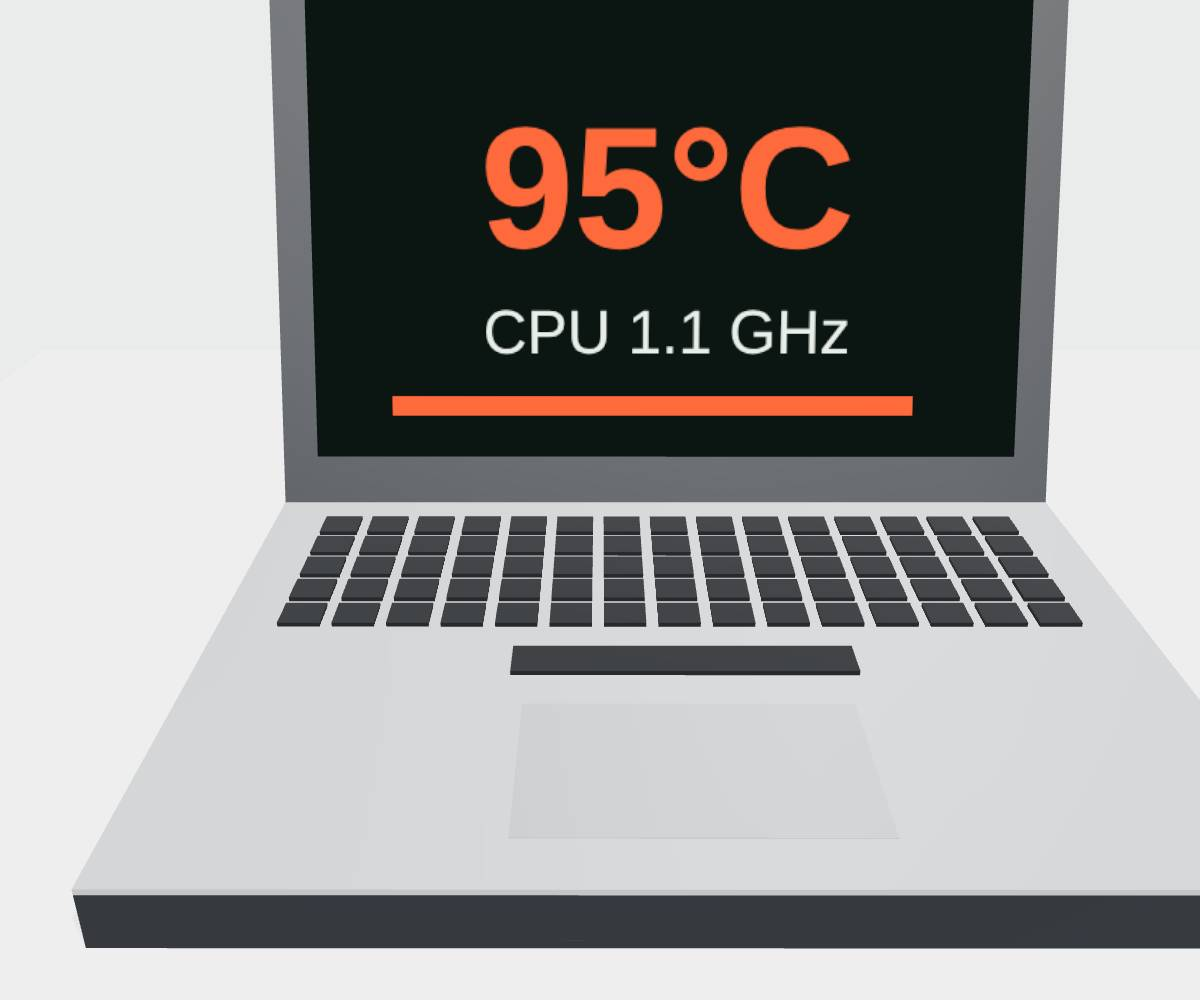
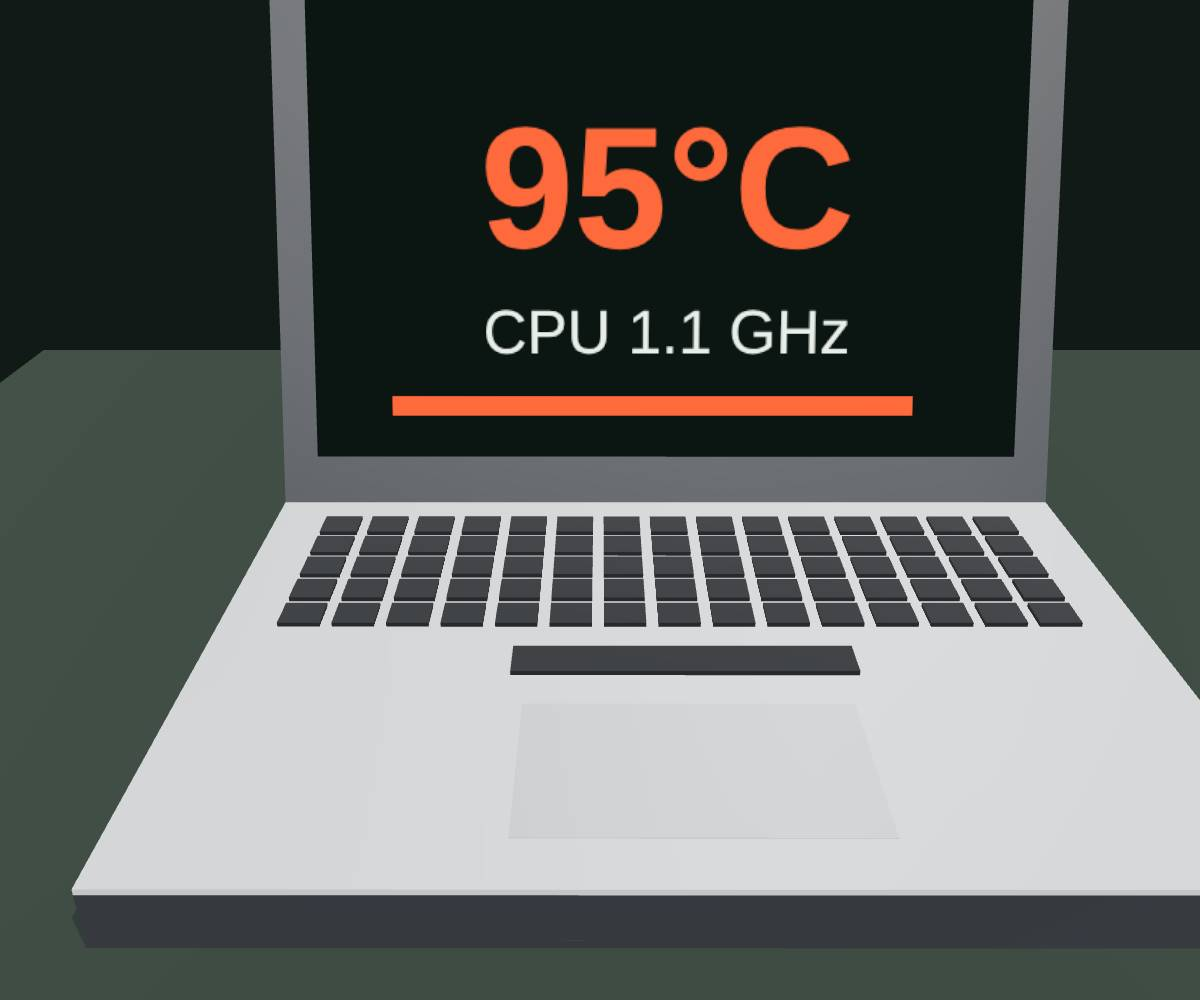
Deploy demos 82

diff --git a/sagi-pc-haifa/css/site.css b/sagi-pc-haifa/css/site.css
@@ -1,14 +1,15 @@
-/* Sagi PC concept: white bench, PCB green, mint for cool. One motif: a chip with its pin-1 corner cut. */
+/* Sagi PC concept: the bench at night, dark ESD-mat green, PCB green, mint for cool. One motif: a chip with its pin-1 corner cut. */
 :root {
-  --bg: #ffffff;
-  --surface: #eef2ef;
-  --ink: #17201b;
-  --muted: #4d5a52;
-  --pcb: #0f3a28;
+  --bg: #0e1512;
+  --surface: #18231e;
+  --ink: #e6efe9;
+  --on-mint: #0b140f;
+  --muted: #a3b4aa;
+  --pcb: #12432e;
   --pcb-ink: #f2f7f3;
   --mint: #a1ffcb;
   --hot: #ff5a2e;
-  --night: #0c0f0e;
+  --night: #070b09;
   --m: clamp(16px, 3vw, 32px);
   --cut: 18px;
   --t-small: 0.875rem;
@@ -19,7 +20,7 @@
   --ease: cubic-bezier(0.22, 1, 0.36, 1);
   --press: 130ms;
   --font: "IBM Plex Sans Hebrew", "Albert Sans", system-ui, sans-serif;
-  color-scheme: light;
+  color-scheme: dark;
 }
 html[lang="en"] { --font: "Albert Sans", "IBM Plex Sans Hebrew", system-ui, sans-serif; }
 *, *::before, *::after { box-sizing: border-box; }
@@ -33,8 +34,8 @@ html[lang="he"] [lang="en"], html[lang="en"] [lang="he"] { display: none !import
 .vh { position: absolute !important; width: 1px; height: 1px; overflow: hidden; clip: rect(0 0 0 0); white-space: nowrap; }
 .skip { position: absolute; inset-inline-start: 8px; top: -60px; z-index: 50; background: var(--ink); color: var(--bg); padding: 10px 14px; }
 .skip:focus { top: 8px; }
-:focus-visible { outline: 3px solid var(--pcb); outline-offset: 3px; }
-::selection { background: var(--mint); color: var(--ink); }
+:focus-visible { outline: 3px solid var(--mint); outline-offset: 3px; }
+::selection { background: var(--mint); color: var(--on-mint); }
 .tr { color: var(--muted); }
 
 /* the motif: chamfer at the start-top corner (pin 1) */
@@ -59,21 +60,21 @@ html.js:not(.still) .motion-switch[aria-checked="true"] .ms-fan { animation: spi
 .mark { font-weight: 700; font-size: 1.5rem; letter-spacing: -0.02em; text-decoration: none; font-family: "Albert Sans", var(--font); }
 .top ul { display: flex; gap: 22px; list-style: none; margin: 0; padding: 0; margin-inline-start: auto; }
 .top ul a { text-decoration: none; font-weight: 500; }
-.nav-call { text-decoration: none; font-weight: 600; background: var(--ink); color: var(--bg); padding: 10px 16px; }
+.nav-call { text-decoration: none; font-weight: 600; background: var(--mint); color: var(--on-mint); padding: 10px 16px; }
 @media (hover: hover) and (pointer: fine) { .top ul a:hover { text-decoration: underline; text-underline-offset: 4px; } }
 
 /* buttons */
-.btn { display: inline-flex; align-items: center; justify-content: center; min-height: 52px; padding: 12px 26px 12px 30px; background: var(--ink); color: var(--bg); font-weight: 600; text-decoration: none;
+.btn { display: inline-flex; align-items: center; justify-content: center; min-height: 52px; padding: 12px 26px 12px 30px; background: var(--mint); color: var(--on-mint); font-weight: 600; text-decoration: none;
   clip-path: polygon(14px 0, 100% 0, 100% 100%, 0 100%, 0 14px); transition: transform var(--press) var(--ease), background-color 160ms var(--ease); }
 [dir="rtl"] .btn { clip-path: polygon(0 0, calc(100% - 14px) 0, 100% 14px, 100% 100%, 0 100%); padding: 12px 30px 12px 26px; }
 .btn:active, .nav-call:active { transform: scale(0.97); }
 .btn-wide { width: 100%; }
 .textlink { font-weight: 600; text-underline-offset: 5px; text-decoration-thickness: 2px; }
-@media (hover: hover) and (pointer: fine) { .btn:hover { background: var(--pcb); } .textlink:hover { text-decoration-color: var(--pcb); } }
+@media (hover: hover) and (pointer: fine) { .btn:hover { background: #c6ffe0; } .textlink:hover { text-decoration-color: var(--mint); } }
 
 .status { display: flex; align-items: center; gap: 8px; font-weight: 500; }
-.status .dot { width: 10px; height: 10px; background: #9aa39d; flex-shrink: 0; }
-.status.open .dot { background: #18a35a; box-shadow: none; }
+.status .dot { width: 10px; height: 10px; background: #5d6b63; flex-shrink: 0; }
+.status.open .dot { background: #3ddc84; box-shadow: none; }
 
 /* hero: the text on the ground, a giant mint chip cropped by the edge, the photo and the rating display on it */
 .hero { position: relative; display: grid; grid-template-columns: repeat(12, 1fr); column-gap: 16px; min-height: calc(100svh - 120px); padding: clamp(24px, 6vh, 72px) var(--m) 64px; overflow: hidden; }
@@ -82,11 +83,11 @@ html.js:not(.still) .motion-switch[aria-checked="true"] .ms-fan { animation: spi
 .hero-text { min-width: 0; }
 .hero-lead { font-size: var(--t-lead); line-height: 1.35; max-width: 30ch; }
 .hero-act { display: flex; flex-wrap: wrap; align-items: center; gap: 14px 24px; }
-.chip { position: absolute; z-index: 0; top: 6%; inset-inline-end: -14vw; width: min(64vw, 115vh); aspect-ratio: 1; background: var(--mint);
+.chip { position: absolute; z-index: 0; top: 6%; inset-inline-end: -14vw; width: min(64vw, 115vh); aspect-ratio: 1; background: var(--pcb);
   clip-path: polygon(14% 0, 100% 0, 100% 100%, 0 100%, 0 14%); }
 [dir="rtl"] .chip { clip-path: polygon(0 0, 86% 0, 100% 14%, 100% 100%, 0 100%); }
 .chip-pads { position: absolute; inset: 0; width: 100%; height: 100%; }
-.chip-pads rect { fill: #7fe6ad; }
+.chip-pads rect { fill: #1d6646; }
 .hero-photo { grid-column: 8 / span 4; grid-row: 1; align-self: center; position: relative; z-index: 1; }
 .hero-photo img { width: 100%; aspect-ratio: 4 / 5; object-fit: cover; --cut: 34px; }
 .hero-photo img, .fault-photo img, .b-wide img, .l-photo img, .in-photo img { clip-path: polygon(var(--cut) 0, 100% 0, 100% 100%, 0 100%, 0 var(--cut)); }
@@ -123,13 +124,13 @@ html[lang="en"] .ch h2 { font-family: "Albert Sans", var(--font); letter-spacing
 .in-photo { grid-column: 8 / span 5; grid-row: 1 / span 2; }
 .in-photo img { --cut: 26px; }
 .track { height: 620vh; margin-inline: calc(-1 * var(--m)); }
-.stage { position: sticky; top: 0; height: 100svh; overflow: hidden; background: #e9ecea; }
+.stage { position: sticky; top: 0; height: 100svh; overflow: hidden; background: #111a16; }
 .view { position: absolute; inset: 0; }
 .view canvas { position: absolute; inset: 0; width: 100% !important; height: 100% !important; display: block; }
 .still { position: absolute; inset: 0; width: 100%; height: 100%; object-fit: cover; object-position: 50% 40%; }
 .stage.has3d .still, .stage.has3d .slabels { display: none; }
 .l3d-host, .slabels { position: absolute; inset: 0; pointer-events: none; z-index: 1; }
-.l3d { position: absolute; left: 0; top: 0; white-space: nowrap; font-size: var(--t-small); font-weight: 600; color: var(--ink); background: var(--mint); padding: 5px 10px 5px 12px; margin: -30px 0 0 -6px;
+.l3d { position: absolute; left: 0; top: 0; white-space: nowrap; font-size: var(--t-small); font-weight: 600; color: var(--on-mint); background: var(--mint); padding: 5px 10px 5px 12px; margin: -30px 0 0 -6px;
   clip-path: polygon(8px 0, 100% 0, 100% 100%, 0 100%, 0 8px); transition: opacity 200ms var(--ease); will-change: transform; }
 .l3d::after { content: ""; }
 .slabels .l3d { opacity: 1; }
@@ -165,7 +166,7 @@ html[lang="en"] .ch h2 { font-family: "Albert Sans", var(--font); letter-spacing
 .ch-updates h2 { grid-column: 1 / span 8; }
 .leds { grid-column: 1 / -1; display: grid; grid-template-columns: repeat(4, 1fr); gap: 16px; }
 .led { display: grid; gap: 14px; font-weight: 500; font-size: var(--t-lead); line-height: 1.25; }
-.led i { width: 100%; height: 22px; background: #1c4a36; transition: background-color 260ms var(--ease); }
+.led i { width: 100%; height: 22px; background: #1f5a40; transition: background-color 260ms var(--ease); }
 .led.lit i { background: var(--mint); }
 .pull-big { grid-column: 1 / span 9; }
 .pull-big p { font-size: clamp(1.375rem, 1.1rem + 1.2vw, 2.25rem); line-height: 1.3; }
@@ -177,7 +178,7 @@ html[lang="en"] .ch h2 { font-family: "Albert Sans", var(--font); letter-spacing
 .tr-text { grid-column: 1 / span 6; display: grid; gap: 36px; align-content: center; }
 .xfer { grid-column: 8 / span 5; align-self: center; }
 .xfer svg { width: 100%; height: auto; }
-.hdd rect:first-child { fill: #c3c9c5; } .platter { fill: #e4e8e6; } .spindle { fill: #8b958f; } .arm { stroke: #3d4741; stroke-width: 8; stroke-linecap: round; } .pins { fill: #c9a85c; }
+.hdd rect:first-child { fill: #8e9893; } .platter { fill: #e4e8e6; } .spindle { fill: #8b958f; } .arm { stroke: #3d4741; stroke-width: 8; stroke-linecap: round; } .pins { fill: #c9a85c; }
 .cable { fill: none; stroke: var(--ink); stroke-width: 6; stroke-linecap: round; }
 .ssd rect:first-child { fill: var(--pcb); } .nand { fill: #1c211e; } .ctrl { fill: #2d3530; }
 .bar { height: 14px; background: var(--surface); margin-top: 16px; }
@@ -194,10 +195,10 @@ html.js:not(.still) .xfer.in .platter { animation: spin 0.9s linear 6; transform
 .ch-builds .pull { grid-column: 4 / span 8; }
 
 /* laptop */
-.ch-laptop { background: var(--mint); display: grid; grid-template-columns: repeat(12, 1fr); column-gap: 16px; align-items: center; }
+.ch-laptop { background: #0f2a21; display: grid; grid-template-columns: repeat(12, 1fr); column-gap: 16px; align-items: center; }
 .l-photo { grid-column: 1 / span 5; }
 .l-photo img { --cut: 36px; }
-.ch-laptop figcaption, .ch-laptop .tr { color: #29453a; }
+.ch-laptop figcaption, .ch-laptop .tr { color: var(--muted); }
 .l-text { grid-column: 7 / span 6; display: grid; gap: 36px; }
 
 /* composer: memory slots */
@@ -236,14 +237,14 @@ html.js:not(.still) .xfer.in .platter { animation: spin 0.9s linear 6; transform
 .hours tr:nth-child(odd) { background: var(--surface); }
 .hours td:first-child { padding-inline-start: 10px; }
 .hours td:last-child { text-align: end; padding-inline-end: 10px; }
-.hours tr.today { font-weight: 700; background: var(--mint); }
+.hours tr.today { font-weight: 700; background: var(--mint); color: var(--on-mint); }
 .v-act { display: flex; flex-wrap: wrap; align-items: center; gap: 14px 24px; }
 .map { grid-column: 1 / -1; margin-inline: calc(-1 * var(--m)); }
 .map iframe { display: block; width: 100%; height: 420px; border: 0; }
 
 /* footer: the label under the laptop */
-.label { background: var(--ink); color: #e9efeb; padding: 56px var(--m) calc(120px + env(safe-area-inset-bottom)); display: grid; grid-template-columns: repeat(12, 1fr); column-gap: 16px; row-gap: 32px; }
-.lb-main { grid-column: 1 / span 5; display: grid; gap: 10px; align-content: start; background: #222c26; padding: 24px; --cut: 22px; }
+.label { background: var(--night); color: #e9efeb; padding: 56px var(--m) calc(120px + env(safe-area-inset-bottom)); display: grid; grid-template-columns: repeat(12, 1fr); column-gap: 16px; row-gap: 32px; }
+.lb-main { grid-column: 1 / span 5; display: grid; gap: 10px; align-content: start; background: var(--surface); padding: 24px; --cut: 22px; }
 .lb-main { clip-path: polygon(var(--cut) 0, 100% 0, 100% 100%, 0 100%, 0 var(--cut)); }
 [dir="rtl"] .lb-main { clip-path: polygon(0 0, calc(100% - var(--cut)) 0, 100% var(--cut), 100% 100%, 0 100%); }
 .lb-name { font-family: "Albert Sans", var(--font); font-weight: 700; font-size: 2rem; letter-spacing: -0.03em; line-height: 1; }
@@ -254,12 +255,12 @@ html.js:not(.still) .xfer.in .platter { animation: spin 0.9s linear 6; transform
 /* sticky contact: a power button and a WhatsApp key, stacked like a laptop's front panel */
 .panel { position: fixed; z-index: 30; inset-inline-end: max(14px, env(safe-area-inset-right)); bottom: calc(14px + env(safe-area-inset-bottom)); display: grid; justify-items: end; gap: 8px; transform: translateY(160%); transition: transform 260ms var(--ease); }
 .panel.show { transform: none; }
-.pw { display: flex; align-items: center; gap: 10px; text-decoration: none; background: var(--ink); color: var(--bg); padding: 6px 18px 6px 6px; font-weight: 600; border-radius: 40px; transition: transform var(--press) var(--ease); }
+.pw { display: flex; align-items: center; gap: 10px; text-decoration: none; background: var(--pcb); color: var(--pcb-ink); padding: 6px 18px 6px 6px; font-weight: 600; border-radius: 40px; transition: transform var(--press) var(--ease); }
 [dir="rtl"] .pw { padding: 6px 6px 6px 18px; }
-.pw svg { width: 48px; height: 48px; padding: 11px; border-radius: 50%; background: var(--mint); stroke: var(--ink); stroke-width: 2.4; fill: none; stroke-linecap: round; }
+.pw svg { width: 48px; height: 48px; padding: 11px; border-radius: 50%; background: var(--mint); stroke: var(--on-mint); stroke-width: 2.4; fill: none; stroke-linecap: round; }
 .wk { display: flex; align-items: center; gap: 8px; text-decoration: none; background: var(--bg); color: var(--ink); padding: 10px 16px; font-weight: 600; outline: 2px solid var(--ink); outline-offset: -2px; transition: transform var(--press) var(--ease); }
-.wk-led { width: 8px; height: 8px; border-radius: 50%; background: #9aa39d; }
-.wk-led.open { background: #18a35a; }
+.wk-led { width: 8px; height: 8px; border-radius: 50%; background: #5d6b63; }
+.wk-led.open { background: #3ddc84; }
 .pw:active, .wk:active { transform: scale(0.95); }
 @media (hover: hover) and (pointer: fine) { .pw:hover svg { background: #c6ffe0; } .wk:hover { background: var(--surface); } }
 

diff --git a/sagi-pc-haifa/pc3d.js b/sagi-pc-haifa/pc3d.js
@@ -81,7 +81,7 @@ export function initPc3D(host, labelsHost, opts) {
   renderer.shadowMap.type = THREE.PCFSoftShadowMap;
 
   const scene = new THREE.Scene();
-  scene.background = new THREE.Color(0xe9ecea);
+  scene.background = new THREE.Color(0x111a16);
   const pmrem = new THREE.PMREMGenerator(renderer);
   scene.environment = pmrem.fromScene(new RoomEnvironment(renderer), 0.04).texture;
   scene.environmentIntensity = 0.75;
@@ -161,7 +161,7 @@ export function initPc3D(host, labelsHost, opts) {
   };
 
   // ---------------------------------------------------------------- the bench and the base shell
-  const bench = box(plastic(0xdfe3e0, 0.85), -40, 40, -0.6, 0, -40, 40); bench.castShadow = false;
+  const bench = box(plastic(0x1f2b25, 0.85), -40, 40, -0.6, 0, -40, 40); bench.castShadow = false;
   box(M.shell, -17, 17, 0, 0.3, -12, 12);
   box(M.shell, -17, 17, 0.3, 1.9, 11.7, 12); box(M.shell, -17, -16.7, 0.3, 1.9, -12, 12); box(M.shell, 16.7, 17, 0.3, 1.9, -12, 12);
   // the back wall has the exhaust vent behind the fins (x -13 .. -6)
